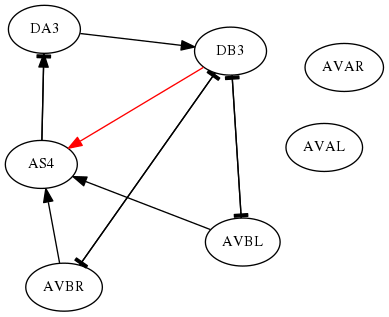
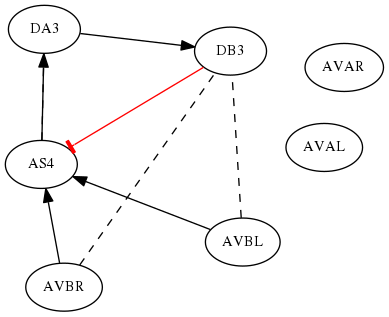
Add GJ only once. Change inh to red tee arrors, GJ to dashed lines without arrowhead

diff --git a/graph_gen.py b/graph_gen.py
@@ -37,10 +37,17 @@ def get_elec_conns(root):
         pre = elec_conn.attrib['presynapticPopulation']
         post = elec_conn.attrib['postsynapticPopulation']
 
+        append = True
+        for conn in elec_conns:
+            if "%s -> %s" % (post, pre) in conn:
+                append = False
+        
+
         if is_muscle(pre) or is_muscle(post):
             continue
 
-        elec_conns.append('%s -> %s [minlen=2 arrowhead="tee"]' % (pre, post))
+        if append:
+            elec_conns.append('%s -> %s [style="dashed" minlen=2 arrowhead="none"]' % (pre, post))
     return elec_conns    
 
 
@@ -57,7 +64,7 @@ def get_chem_conns(root):
 
         for child in chem_conn:
             if 'inh' in child.attrib['postComponent']:
-                chem_conns.append('%s -> %s [minlen=2 color=red]' % (pre, post))
+                chem_conns.append('%s -> %s [minlen=2 color=red arrowhead="tee"]' % (pre, post))
             else:
                 chem_conns.append('%s -> %s [minlen=2]' % (pre, post))
     return chem_conns
@@ -66,6 +73,7 @@ def get_chem_conns(root):
 def write_graph_file(filename, cells, elec_conns, chem_conns):
     with open(filename, 'w') as graph:
         graph.write('digraph exp {\n')
+        #graph.write('graph [layout = dot]\n;')
         
         graph.write('node [fontsize=11]; ')
         for cell in cells:
